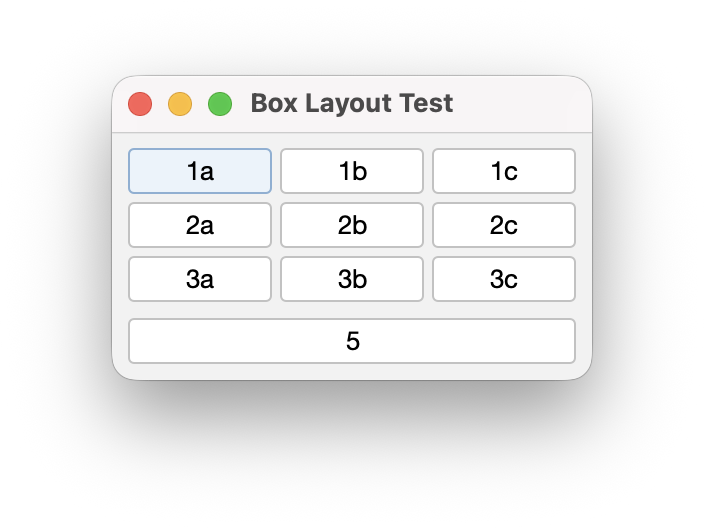
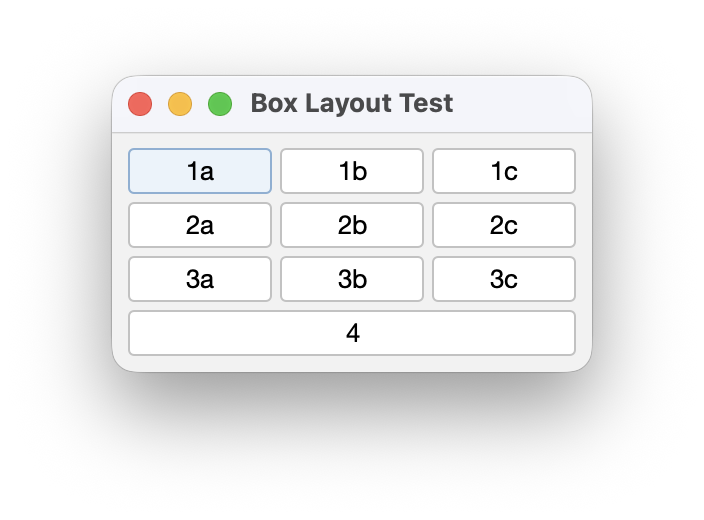
Update layout panels.

Changed region(s): [[0.1562, 0.2154, 0.8438, 0.7385], [0.1875, 0.1231, 0.8125, 0.2154]]

diff --git a/sierra/src/main/java/org/httprpc/sierra/RowPanel.java b/sierra/src/main/java/org/httprpc/sierra/RowPanel.java
@@ -37,9 +37,7 @@ public class RowPanel extends BoxPanel {
 
                 var preferredSize = component.getPreferredSize();
 
-                if (Double.isNaN(getWeight(i))) {
-                    contentWidth += preferredSize.width;
-                }
+                contentWidth += preferredSize.width;
 
                 if (alignToBaseline) {
                     var baseline = component.getBaseline(preferredSize.width, preferredSize.height);

diff --git a/sierra/src/main/java/org/httprpc/sierra/ColumnPanel.java b/sierra/src/main/java/org/httprpc/sierra/ColumnPanel.java
@@ -36,9 +36,7 @@ public class ColumnPanel extends BoxPanel {
 
                 contentWidth = Math.max(contentWidth, preferredSize.width);
 
-                if (Double.isNaN(getWeight(i))) {
-                    contentHeight += preferredSize.height;
-                }
+                contentHeight += preferredSize.height;
             }
 
             var insets = getInsets();

diff --git a/sierra-test/src/main/java/org/httprpc/sierra/test/BaselineAlignmentTest.java b/sierra-test/src/main/java/org/httprpc/sierra/test/BaselineAlignmentTest.java
@@ -32,7 +32,11 @@ public class BaselineAlignmentTest extends JFrame implements Runnable {
     public void run() {
         setContentPane(UILoader.load(this, "BaselineAlignmentTest.xml"));
 
-        pack();
+        var size = getPreferredSize();
+
+        setMinimumSize(size);
+        setMaximumSize(size);
+
         setVisible(true);
     }
 

diff --git a/sierra/src/main/java/org/httprpc/sierra/Spacer.java b/sierra/src/main/java/org/httprpc/sierra/Spacer.java
@@ -25,6 +25,7 @@ public class Spacer extends JComponent {
      * Constructs a new spacer.
      */
     public Spacer() {
+        this(0);
     }
 
     /**
